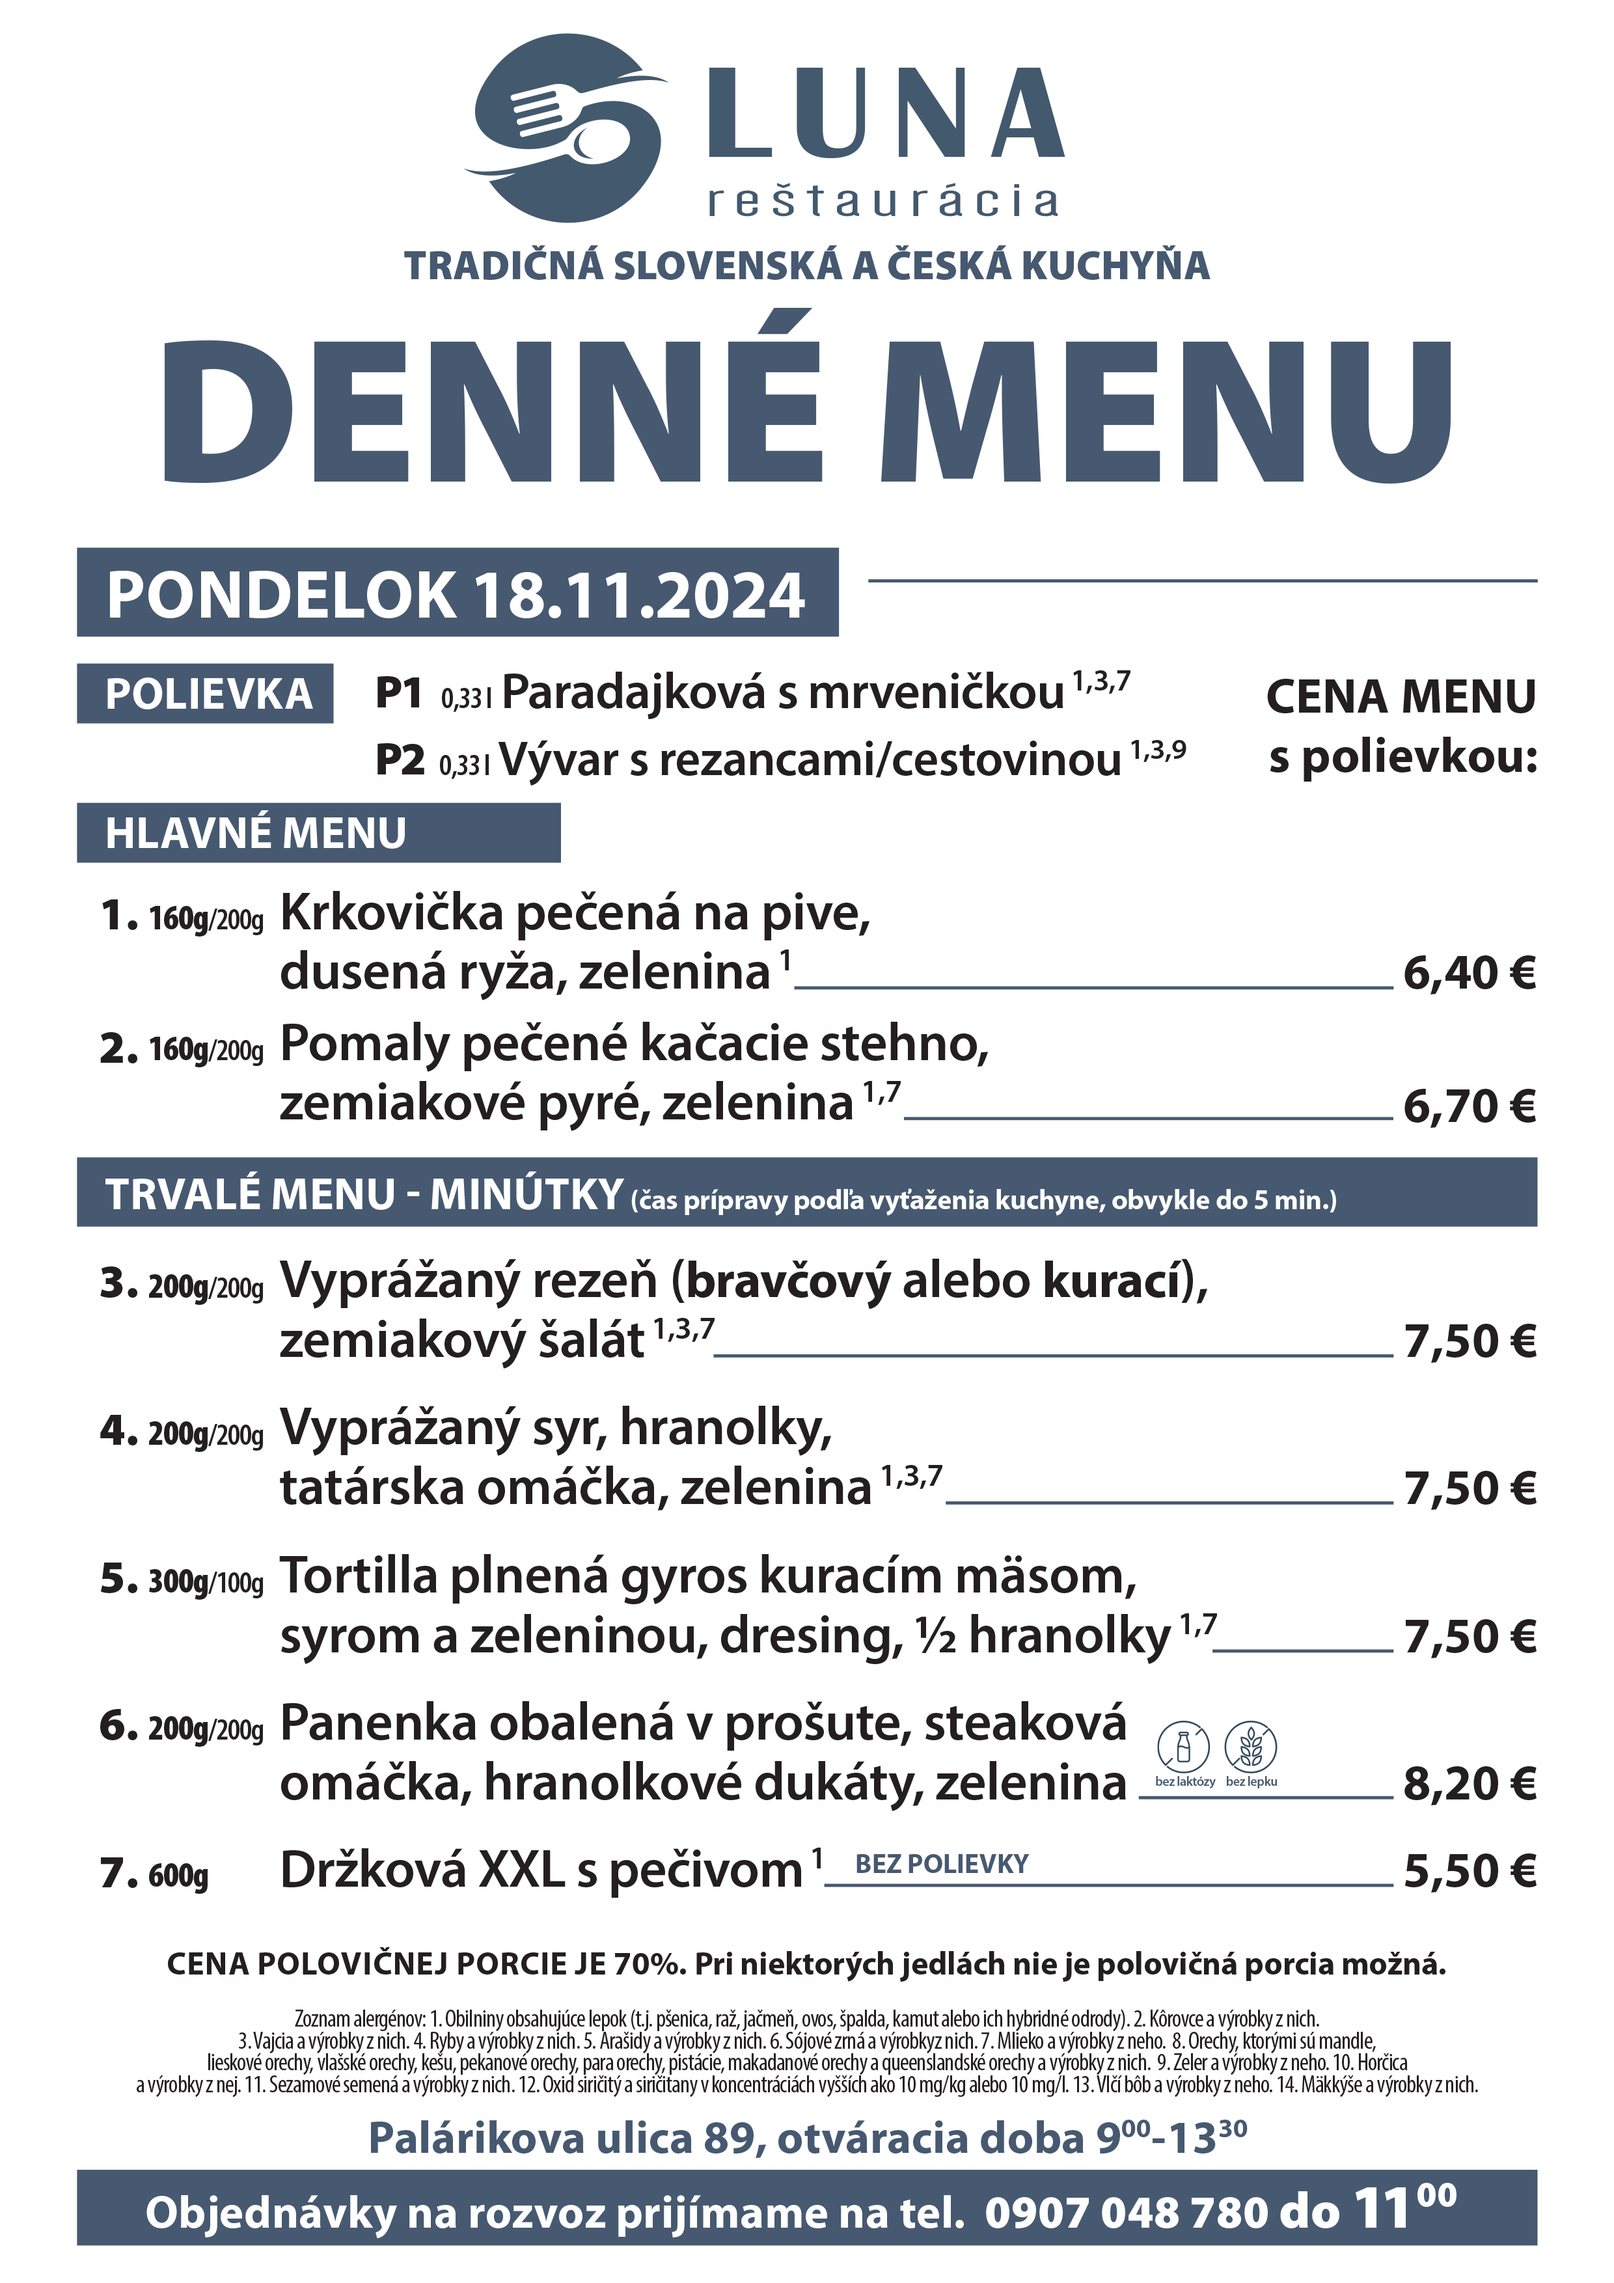
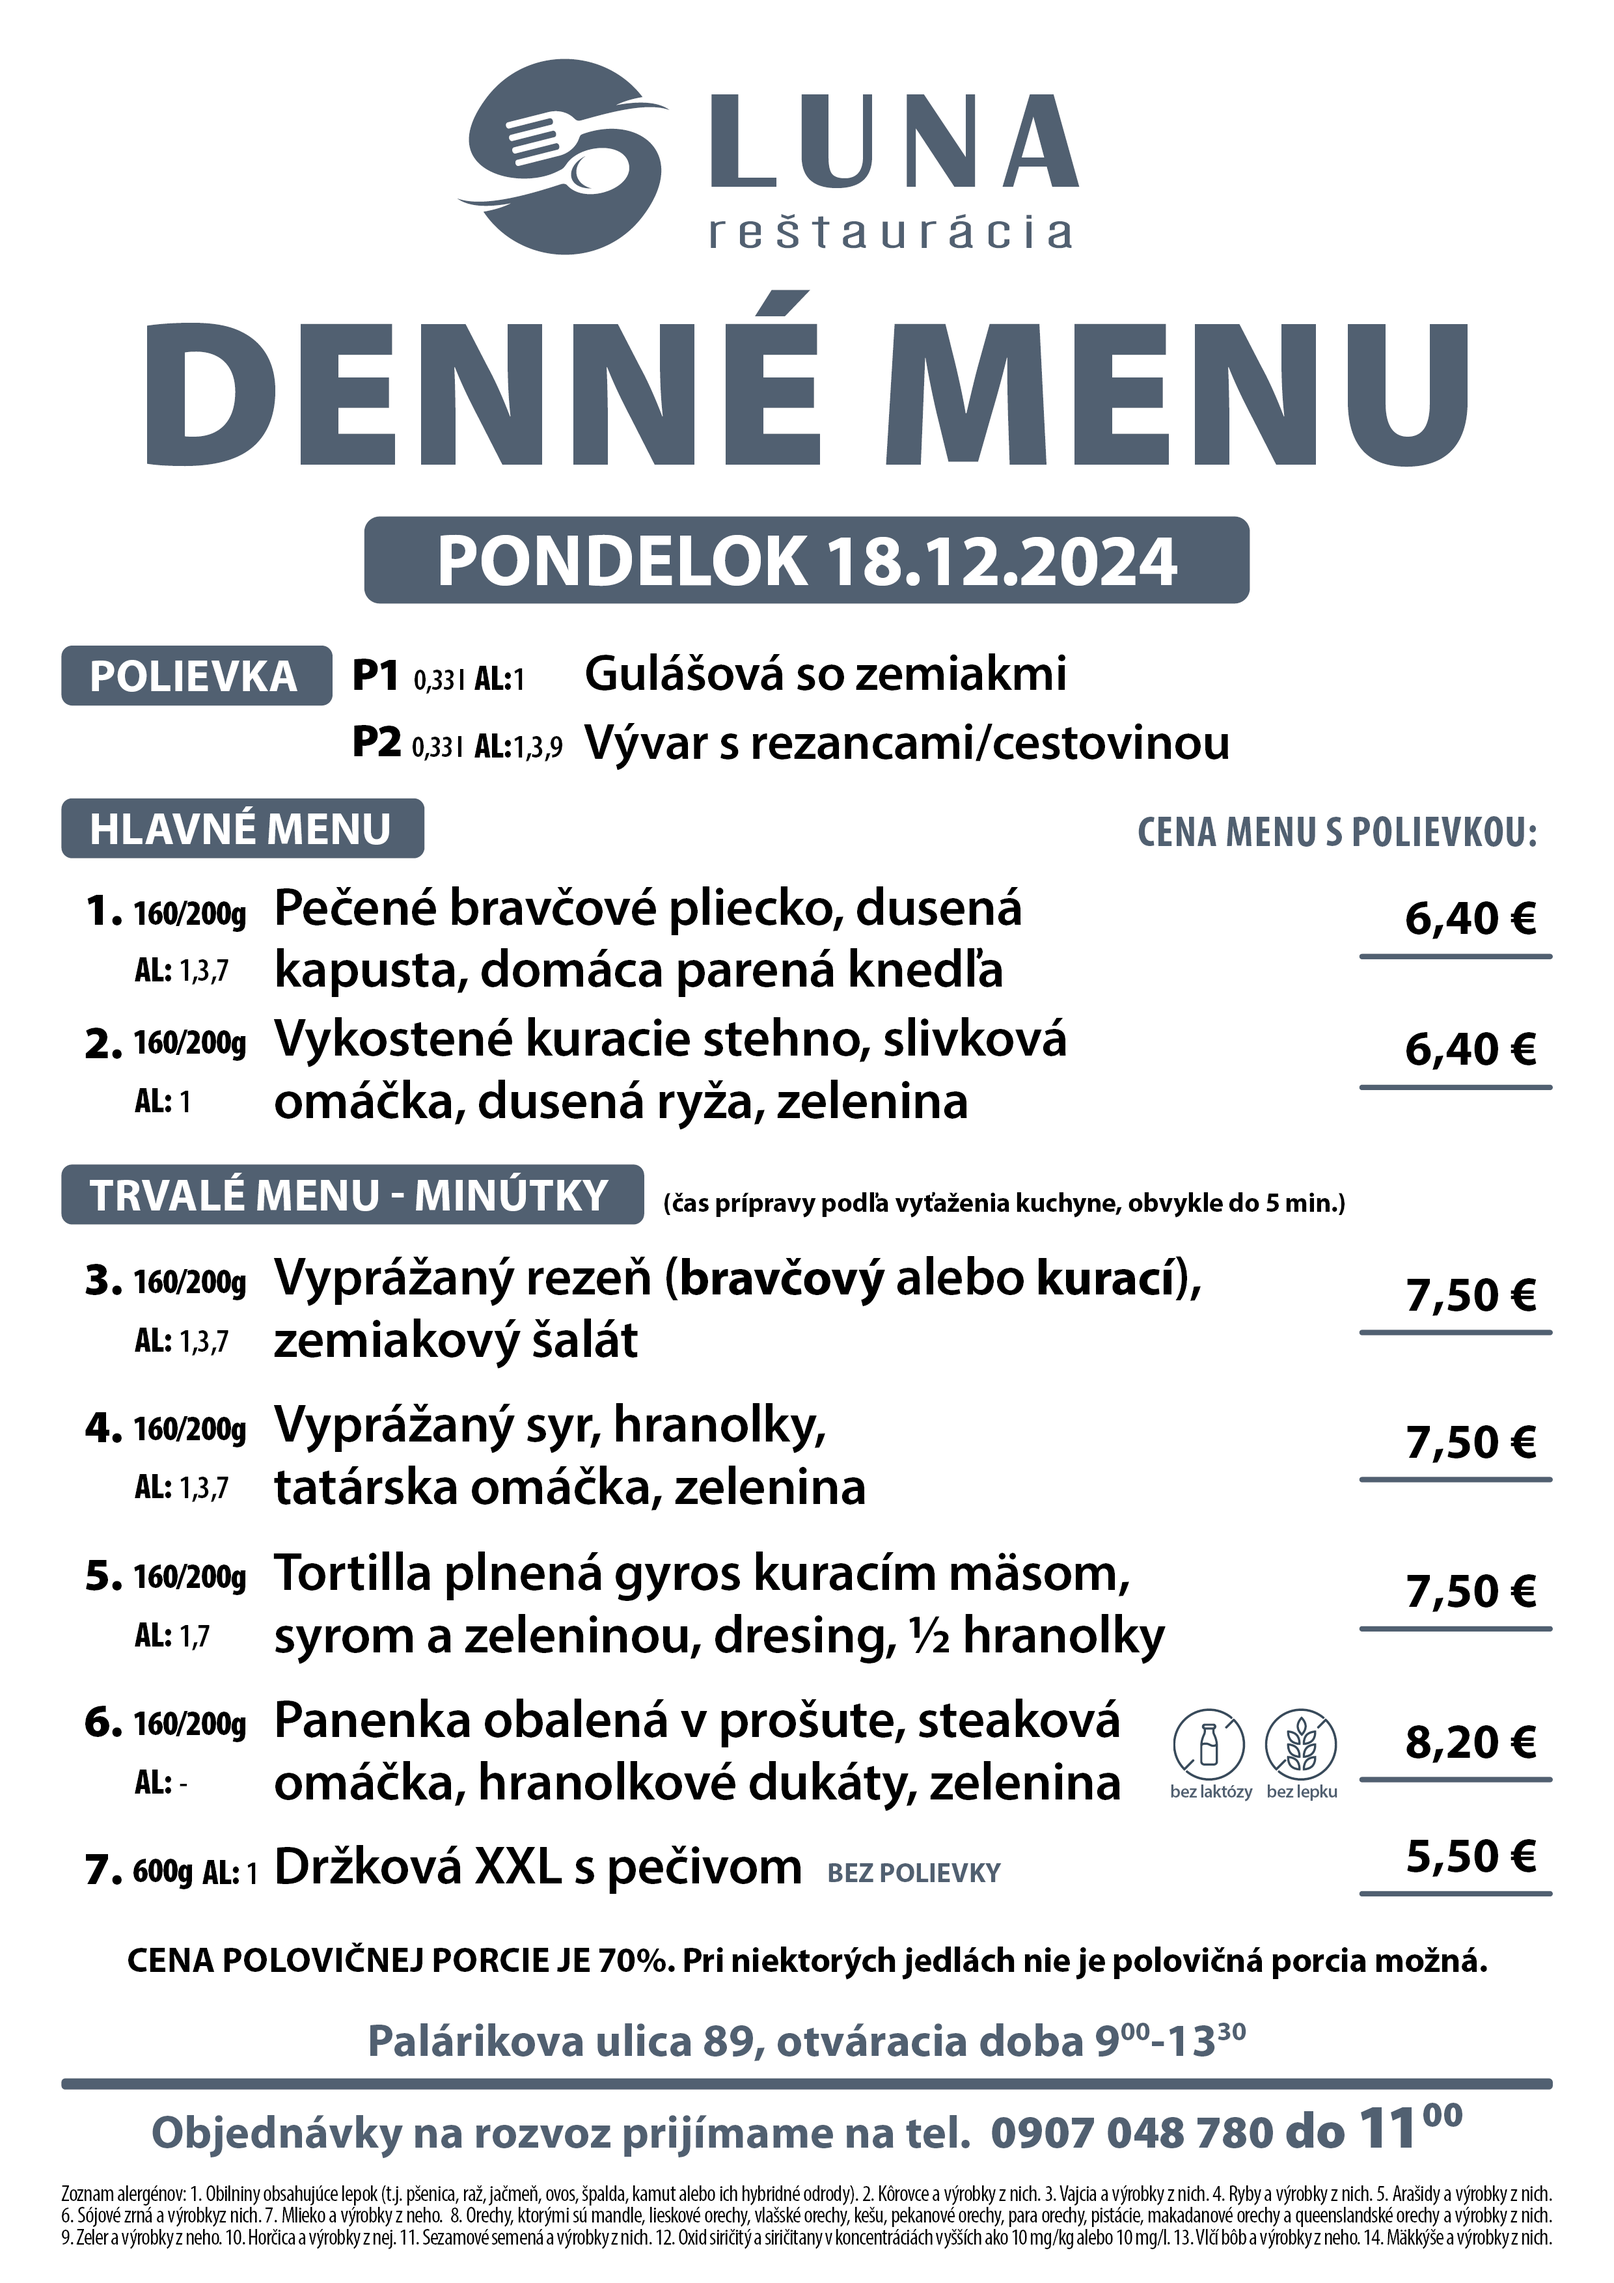
pdf v takmer hotovom stave s funkcnym api

Changed region(s): [[0.031, 0.0, 0.9625, 0.9943]]

diff --git a/main.py b/main.py
@@ -1,81 +1,165 @@
 from reportlab.pdfgen import canvas
 from reportlab.pdfbase import pdfmetrics
 from reportlab.pdfbase.ttfonts import TTFont
-from reportlab.lib.units import mm
 from reportlab.lib import colors
 from reportlab.lib.colors import CMYKColor
-from reportlab.lib.pagesizes import A4
 from reportlab.graphics.shapes import Drawing, Rect
+from api import menu
+from my_functions import *
 
- # Register font
+# Fonty a farby
 pdfmetrics.registerFont(TTFont("MyriadSB", "assets/MyriadPro-Semibold.ttf"))
 pdfmetrics.registerFont(TTFont("MyriadB", "assets/MyriadPro-Bold.ttf"))
 pdfmetrics.registerFont(TTFont("MyriadBlck", "assets/MyriadPro-Black.ttf"))
+pdfmetrics.registerFont(TTFont("MyriadBolCon", "assets/MyriadPro-BoldCond.ttf"))
+pdfmetrics.registerFont(TTFont("MyriadCond", "assets/MyriadPro-Cond.ttf"))
+my_black = CMYKColor(0, 0, 0, 1)  # 100% black
+my_dblue = CMYKColor(0.40, 0.19, 0, 0.64)  # Dark Blue
+my_white = CMYKColor(0, 0, 0, 0)  # White
 
-
-my_colors = {
-    "dark_blue": (40 / 100, 19 / 100, 0, 64 / 100),
-    "light_blue": (30 / 100, 10 / 100, 0, 20 / 100),
-}
-
-# Create canvas with dimensions in millimeters (A4 size: 210mm x 297mm)
-c = canvas.Canvas("Luna_menu.pdf", pagesize=(210 * mm, 297 * mm)) #, bottomup = 0
+# Create canvas
+c = canvas.Canvas("menu.pdf", pagesize=(595, 842), enforceColorSpace="CMYK")
 
 # Draw the background image to cover the entire page
-c.drawImage("assets/background.png", 0 * mm, 0 * mm, width=210 * mm, height=297 * mm)
-
-
-
-# Text content in an array
-txt_content = ["Krko pečená na pive"]
+#c.drawImage("assets/background.png", 0, 0, width=595, height=842)
 
 def template():
+    # Draw the rectangle
+    c.setFillColor(my_dblue)
+    c.roundRect(134, y(222), 327, 32, 6, stroke=0, fill=1)
+    c.roundRect(22, y(260), 100, 22, 4, stroke=0, fill=1)
+    c.roundRect(22, y(317), 135, 22, 4, stroke=0, fill=1)
+    c.roundRect(22, y(451), 215, 22, 4, stroke=0, fill=1)
+    c.roundRect(22, y(769), 550, 4, 1, stroke=0, fill=1)
+    c.roundRect(501, y(353.7), 71, 2, 0.5, stroke=0, fill=1)
+    c.roundRect(501, y(402), 71, 2, 0.5, stroke=0, fill=1)
+    c.roundRect(501, y(492), 71, 2, 0.5, stroke=0, fill=1)
+    c.roundRect(501, y(546.5), 71, 2, 0.5, stroke=0, fill=1)
+    c.roundRect(501, y(601.5), 71, 2, 0.5, stroke=0, fill=1)
+    c.roundRect(501, y(657), 71, 2, 0.5, stroke=0, fill=1)
+    c.roundRect(501, y(699), 71, 2, 0.5, stroke=0, fill=1)
+    # logo a nadpisy
+    c.drawImage("assets/logoLUNA.png", 167, y(94), width=232.9, height=73.9)
+    c.setFillColor(my_dblue)
     c.setFont("MyriadBlck", 77)
-    #a = CMYKColor(40, 19, 0, 64)
-    c.setFillColorCMYK(*my_colors["dark_blue"])  # Set color
-    c.drawString(19.7 * mm, 234.5 * mm, "DENNÉ MENU")
-
-    # drawing = Drawing(400, 200)
-    # r1 = Rect(0, 0, 400, 200, 0, 0)
-    # r1.fillColor = colors.beige
-    # drawing.add(r1)
-
-def obsah_menu(): 
-    # Add new text on top of the background image
-    c.setFont("MyriadSB", 19)
-    c.setFillColor(CMYKColor(0, 0, 0, 100))  # Set color
-    c.drawString(50 * mm, 250 * mm, txt_content[0])
-
-
-    #c.showPage()
-    #c.drawString(100, 700, "Krkovička pečená na pive")
-
+    c.drawString(50, y(172), "DENNÉ MENU", charSpace=1.7)
+    c.setFillColor(my_white)
+    c.setFont("MyriadB", 17)
+    c.drawString(33, y(255), "POLIEVKA", charSpace=0)
+    c.drawString(33, y(312), "HLAVNÉ MENU", charSpace=-0.1)
+    c.drawString(33, y(446.3), "TRVALÉ MENU - MINÚTKY", charSpace=-0.1)
     
-# Call the function
-template()
-obsah_menu()
-c.showPage()
-template()
-obsah_menu()
+    # oznacenie jedal
+    c.setFillColor(my_black)
+    c.setFont("MyriadBlck", 17)
+    c.drawString(129, y(254), "P1", charSpace=0)
+    c.drawString(129, y(279), "P2", charSpace=0)
+    c.drawString(31.5, y(341), "1.", charSpace=0)
+    c.drawString(31.5, y(390), "2.", charSpace=0)
+    c.drawString(31.5, y(477.5), "3.", charSpace=0)
+    c.drawString(31.5, y(532), "4.", charSpace=0)
+    c.drawString(31.5, y(586.5), "5.", charSpace=0)
+    c.drawString(31.5, y(641), "6.", charSpace=0)
+    c.drawString(31.5, y(695), "7.", charSpace=0)
+    c.setFont("MyriadBolCon", 13)
+    c.drawString(175, y(254), "AL:", charSpace=0)
+    c.drawString(175, y(279), "AL:", charSpace=0)
+    c.drawString(49.5, y(362), "AL:", charSpace=0)
+    c.drawString(49.5, y(410), "AL:", charSpace=0)
+    c.drawString(49.5, y(498.5), "AL:", charSpace=0)
+    c.drawString(49.5, y(552.5), "AL:", charSpace=0)
+    c.drawString(49.5, y(607), "AL:", charSpace=0)
+    c.drawString(49.5, y(661.5), "AL:", charSpace=0)
+    c.drawString(76.5, y(695), "AL:", charSpace=0)
+    c.setFont("MyriadBolCon", 11)
+    c.drawString(152, y(254), "0,33 l", charSpace=-0.5)
+    c.drawString(152, y(279), "0,33 l", charSpace=-0.5)
+    
+    # spodne texty
+    c.setFillColor(my_dblue)
+    c.setFont("MyriadBolCon", 16)
+    c.drawRightString(567, y(312), "CENA MENU S POLIEVKOU:", charSpace=0.3)
+    c.setFont("MyriadB", 17)
+    c.drawCentredString(298, y(756), "Palárikova ulica 89, otváracia doba 9:00-13:30", charSpace=-0.1)
+    c.drawCentredString(298, y(790), "Objednávky na rozvoz prijímame na tel.  0907 048 780 do 11:00", charSpace=-0.1)
+    c.setFillColor(my_black)
+    c.setFont("MyriadB", 10)
+    c.drawString(245, y(447), "(čas prípravy podľa vyťaženia kuchyne, obvykle do 5 min.)", charSpace=-0.2)
+    c.setFont("MyriadB", 13)
+    c.drawCentredString(298, y(727), "CENA POLOVIČNEJ PORCIE JE 70%. Pri niektorých jedlách nie je polovičná porcia možná.", charSpace=-0.1)
+    c.setFont("MyriadCond", 8.5)
+    c.drawCentredString(298, y(807), "Zoznam alergénov: 1. Obilniny obsahujúce lepok (t.j. pšenica, raž, jačmeň, ovos, špalda, kamut alebo ich hybridné odrody). 2. Kôrovce a výrobky z nich. 3. Vajcia a výrobky z nich. 4. Ryby a výrobky z nich. 5. Arašidy a výrobky z nich.", charSpace=-0.2)
+    c.drawCentredString(298, y(815), "6. Sójové zrná a výrobkyz nich. 7. Mlieko a výrobky z neho.  8. Orechy, ktorými sú mandle, lieskové orechy, vlašské orechy, kešu, pekanové orechy, para orechy, pistácie, makadanové orechy a queenslandské orechy a výrobky z nich.", charSpace=-0.2)
+    c.drawCentredString(298, y(823), "9. Zeler a výrobky z neho. 10. Horčica a výrobky z nej. 11. Sezamové semená a výrobky z nich. 12. Oxid siričitý a siričitany v koncentráciách vyšších ako 10 mg/kg alebo 10 mg/l. 13. Vlčí bôb a výrobky z neho. 14. Mäkkýše a výrobky z nich.", charSpace=-0.25)
+
+def obsah_menu(jedlo, p): 
+    # den a datum          
+    c.setFillColor(my_white)
+    c.setFont("MyriadB", 27)
+    c.drawCentredString(298, y(215), jedlo[p][0].upper() + " " + jedlo[p][1], charSpace=-0.1)
+    # polievky
+    c.setFillColor(my_black)
+    c.setFont("MyriadSB", 20) 
+    c.drawString(216, y(254), jedlo[p][2], charSpace=-0.5)
+    c.drawString(216, y(279), jedlo[p][6], charSpace=-0.5)
+    # menu
+    c.drawString(110, y(341), pol(jedlo[p][10], 1), charSpace=-0.25)
+    c.drawString(110, y(364), pol(jedlo[p][10], 2), charSpace=-0.25)
+    c.drawString(110, y(390), pol(jedlo[p][14], 1), charSpace=-0.25)
+    c.drawString(110, y(413), pol(jedlo[p][14], 2), charSpace=-0.25)
+    # minutky
+    c.drawString(110, y(477.5), pol(jedlo[5][1], 1), charSpace=-0.25)
+    c.drawString(110, y(500.5), pol(jedlo[5][1], 2), charSpace=-0.25)
+    c.drawString(110, y(532), pol(jedlo[5][9], 1), charSpace=-0.25)
+    c.drawString(110, y(555), pol(jedlo[5][9], 2), charSpace=-0.25)
+    c.drawString(110, y(586.5), pol(jedlo[5][13], 1), charSpace=-0.25)
+    c.drawString(110, y(609.5), pol(jedlo[5][13], 2), charSpace=-0.25)
+    c.drawString(110, y(641), pol(jedlo[5][17], 1), charSpace=-0.25)
+    c.drawString(110, y(664), pol(jedlo[5][17], 2), charSpace=-0.25)
+    c.drawString(110, y(695), jedlo[5][21], charSpace=-0.25)
+    # gramaz
+    c.setFont("MyriadBolCon", 14)
+    c.drawString(49.5, y(341), jedlo[p][12], charSpace=0)
+    c.drawString(49.5, y(390), jedlo[p][16], charSpace=-0)
+    c.drawString(49.5, y(477.5), jedlo[5][3], charSpace=-0)
+    c.drawString(49.5, y(532), jedlo[5][11], charSpace=-0)
+    c.drawString(49.5, y(586.5), jedlo[5][15], charSpace=-0)
+    c.drawString(49.5, y(641), jedlo[5][19], charSpace=-0)
+    c.drawString(49.5, y(695), jedlo[5][23], charSpace=-0)
+    # alergeny
+    c.setFont("MyriadBolCon", 12)
+    c.drawString(192, y(254), jedlo[p][3], charSpace=-0.5)
+    c.drawString(192, y(279), jedlo[p][7], charSpace=-0.5)
+    c.drawString(66.5, y(362), jedlo[p][11], charSpace=-0.5)
+    c.drawString(66.5, y(410), jedlo[p][15], charSpace=-0.5)
+    c.drawString(66.5, y(498.5), jedlo[5][2], charSpace=-0.5)
+    c.drawString(66.5, y(552.5), jedlo[5][10], charSpace=-0.5)
+    c.drawString(66.5, y(607), jedlo[5][14], charSpace=-0.5)
+    c.drawString(66.5, y(661.5), jedlo[5][18], charSpace=-0.5)
+    c.drawString(91.5, y(695), jedlo[5][22], charSpace=-0.5)
+    # ceny
+    c.setFont("MyriadBlck", 18)
+    c.drawRightString(567, y(344.5), jedlo[p][13], charSpace=0)
+    c.drawRightString(567, y(393), jedlo[p][17], charSpace=0)
+    c.drawRightString(567, y(483.5), jedlo[5][4], charSpace=0)
+    c.drawRightString(567, y(537.5), jedlo[5][12], charSpace=0)
+    c.drawRightString(567, y(592.5), jedlo[5][16], charSpace=0)
+    c.drawRightString(567, y(648), jedlo[5][20], charSpace=0)
+    c.drawRightString(567, y(690.5), jedlo[5][24], charSpace=0)
+    
+def vykresli_strany():
+    for i in range(5):
+        template()
+        obsah_menu(menu, i)
+        if i != 4:
+            c.showPage()
+
+vykresli_strany()
+#! obrazky bez lepku - ak nebude 1 v alergenoch tak obrazok?
+#! minúty časov ako horný index
+#! bravčový a kurací
+#! exe subor?
 
 # Save the PDF
 c.save()
-print("AHOJ... PDF created successfully: Luna_menu.pdf")
-
-
-
-# # Save the current state
-# c.saveState()
-
-# # Translate so that we can flip the Y-axis
-# c.translate(0, 297*mm)
-
-# # Scale with a negative factor along Y to flip it
-# c.scale(1, -1)
-
-# # Now draw the image at (0,0) in this transformed space
-# # The image will appear correctly oriented on the final page
-# c.drawImage("assets/background.png", 0, 0, width=210*mm, height=297*mm)
-
-# # Restore the state to normal (so other content isn't flipped)
-# c.restoreState()
+print("AHOJ... PDF created successfully: menu.pdf")

diff --git a/api.py b/api.py
@@ -1,0 +1,34 @@
+import requests
+from config import api_key
+
+# The spreadsheet ID and range
+spreadsheet_id = "1dgnH_IIQG_qG50bNb7XZ0_2Fzsl5aO8QdZEF7NxkRuY"
+sheet_range = "menuLuna!A1:D42"
+
+# Construct the URL
+url = f"https://sheets.googleapis.com/v4/spreadsheets/{spreadsheet_id}/values/{sheet_range}?key={api_key}"
+
+# Send GET request to the API
+response = requests.get(url)
+
+# Check if the request was successful
+if response.status_code == 200:
+    data = response.json()  # Parse the JSON response
+    # print("Sheet Data:")
+    # for row in data.get("values", []):
+    #     print(row)  # Print each row in the sheet
+    source = data.get("values", [])
+else:
+    print(f"Failed to fetch data. HTTP Status Code: {response.status_code}")
+    print(response.text)  # Print error message if any
+
+source.append([])
+menu = []
+a = []
+for i in range(len(source)):
+    if not source[i]:
+        menu.append(a)
+        a = []
+    else:
+        for t in source[i]:   
+            a.append(t)

diff --git a/my_functions.py b/my_functions.py
@@ -1,0 +1,18 @@
+def y(c):
+    return 842-c
+
+def pol(sentence, cast):
+    words = sentence.split()
+    total_length = sum(len(word) for word in words) + len(words) - 1  # Include spaces
+    half_length = total_length // 2
+    current_length = 0
+    for i, word in enumerate(words):
+        current_length += len(word) + 1  # Add word length and a space
+        if current_length >= half_length:
+            part1 = ' '.join(words[:i + 1])
+            part2 = ' '.join(words[i+ 1:])
+            if cast == 1:
+                return part1
+            if cast == 2:
+                return part2
+    return sentence, ""  # Fallback if no split point is found
